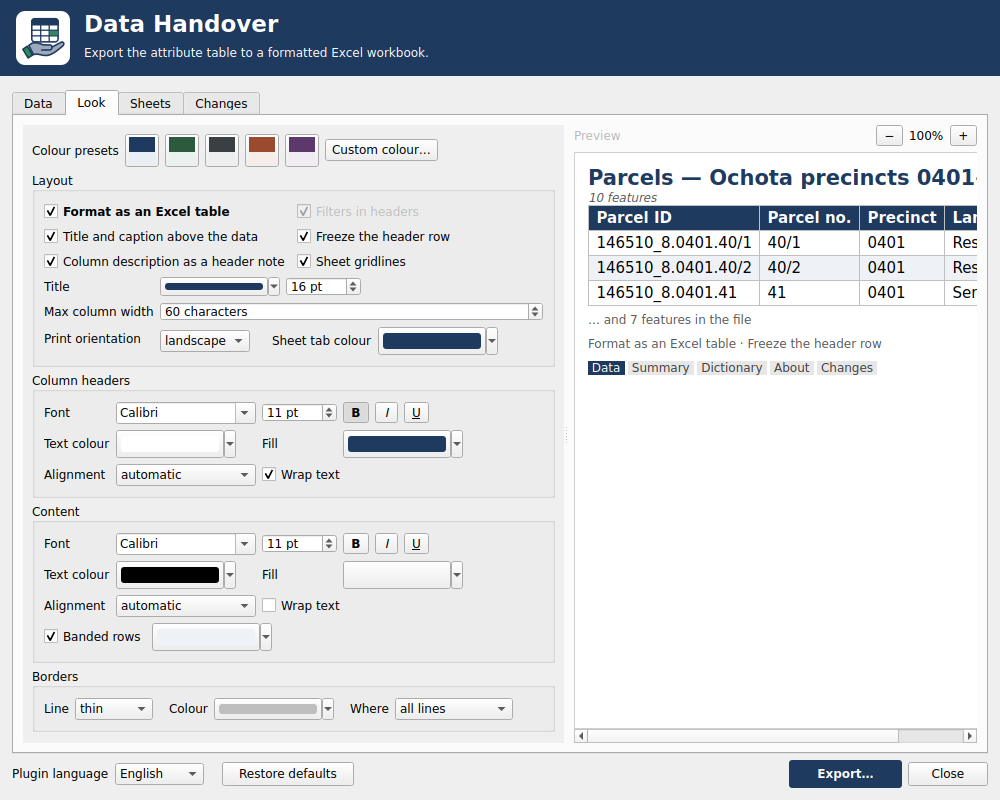
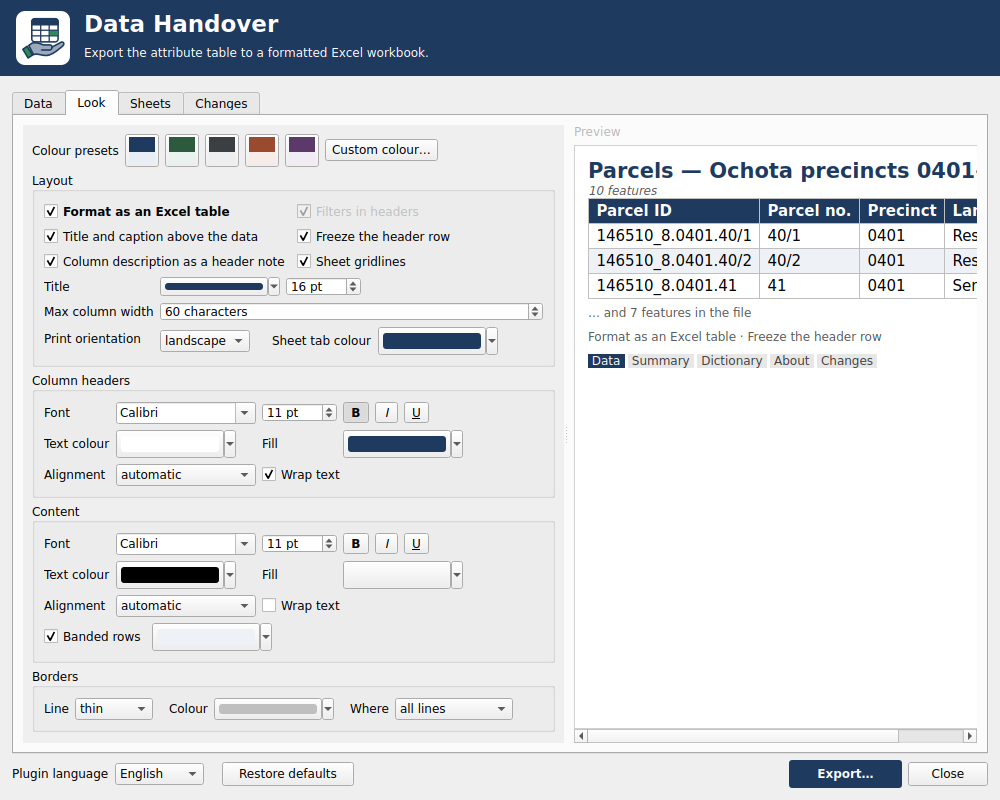
1.0.2: bez powiększania podglądu — podgląd zawsze w rozmiarze z ustawień
Podgląd w zakładce Wygląd pokazuje tylko fragment tabeli: powiększenie
nie pokazywało niczego więcej, a zafałszowywało rozmiar ustawionych
czcionek. Usunięte przyciski − / +, zapis preview_zoom i skalowanie HTML
podglądu (kod podglądu jak przed R11), dwa klucze tłumaczeń oraz opisy
w README, CHANGELOG i metadata.txt. Rozdzielacz i poziomy suwak podglądu
zostają.

Test: pismo w podglądzie ma rozmiar z ustawień także przy starym wpisie
preview_zoom w profilu; w najmniejszym oknie podgląd przewija się
w poziomie. Zrzut zakładki Wygląd i animacja w README odświeżone.

Changed region(s): [[0.558, 0.1562, 0.992, 0.4688]]

diff --git a/data_handover/dialog.py b/data_handover/dialog.py
@@ -91,7 +91,6 @@ CSS_BORDER = {"hair": "1px dotted", "thin": "1px solid", "medium": "2px solid", 
 DEFAULT_SIZE = QSize(1000, 720)
 # ponytail: przybliżona wysokość paska tytułu — Qt zna ramkę okna dopiero po jego pokazaniu.
 FRAME = 40
-ZOOMS = (50, 67, 75, 90, 100, 110, 125, 150, 175, 200)  # powiększenie podglądu w %, jak w przeglądarkach
 
 
 def safe_filename(text: str) -> str:
@@ -247,7 +246,6 @@ class HandoverDialog(QDialog):
         self._summable: set[str] = set()  # pola, które w tej chwili wolno sumować
         self._group_by = ""  # zapamiętana kolumna grupowania; do pliku idzie tylko to, co pokazuje lista
         self._refreshing = False
-        self.zoom = 100
 
         self.setWindowTitle(self.t("ui.title"))
         self.setWindowIcon(QIcon(ICON))
@@ -687,28 +685,14 @@ class HandoverDialog(QDialog):
         panel = QWidget()
         preview_box = QVBoxLayout(panel)
         preview_box.setContentsMargins(6, 0, 0, 0)
-        zoom_row = QHBoxLayout()
         caption = QLabel(self.t("ui.file.preview"))
         caption.setObjectName("hint")
-        zoom_row.addWidget(caption)
-        zoom_row.addStretch()
-        self.zoom_out_button = QToolButton()
-        self.zoom_out_button.setText("−")
-        self.zoom_out_button.setToolTip(self.t("ui.preview.zoom_out"))
-        self.zoom_out_button.clicked.connect(lambda: self._zoom(-1))
-        self.zoom_label = QLabel()
-        self.zoom_in_button = QToolButton()
-        self.zoom_in_button.setText("+")
-        self.zoom_in_button.setToolTip(self.t("ui.preview.zoom_in"))
-        self.zoom_in_button.clicked.connect(lambda: self._zoom(1))
-        for widget in (self.zoom_out_button, self.zoom_label, self.zoom_in_button):
-            zoom_row.addWidget(widget)
         self.preview = QLabel()
         self.preview.setTextFormat(Qt.TextFormat.RichText)
         self.preview.setAlignment(Qt.AlignmentFlag.AlignTop | Qt.AlignmentFlag.AlignLeft)
         self.preview.setObjectName("preview")
         self.preview_scroll = scrolled(self.preview)
-        preview_box.addLayout(zoom_row)
+        preview_box.addWidget(caption)
         preview_box.addWidget(self.preview_scroll, 1)
         self.look_splitter.addWidget(panel)
         self.look_splitter.setStretchFactor(0, 0)
@@ -896,19 +880,18 @@ class HandoverDialog(QDialog):
         )
 
     def reset_settings(self) -> None:
-        """Przywraca domyślny wygląd, arkusze, język pliku (= język okna), rozmiar okna, rozdzielacz
-        i powiększenie podglądu (opisy kolumn w projekcie zostają)."""
+        """Przywraca domyślny wygląd, arkusze, język pliku (= język okna), rozmiar okna i rozdzielacz
+        (opisy kolumn w projekcie zostają)."""
         self._set_look(Look())
         self._set_sheets(Sheets())
         self.lang_combo.setCurrentIndex(max(0, self.lang_combo.findData(self.lang)))
         self._fit(DEFAULT_SIZE, self.isVisible())
         self.look_splitter.setSizes(self.look_split)
-        self._set_zoom(100)
 
     # -------------------------------------------------------------- window
 
     def _restore_window(self) -> None:
-        """Rozmiar okna, rozdzielacz i powiększenie z ostatniego razu, a bez nich — domyślne."""
+        """Rozmiar okna i rozdzielacz z ostatniego razu, a bez nich — domyślne."""
         self.ensurePolished()  # styl okna poszerza przycisk eksportu
         self.footer_width = self.footer.minimumSize().width()  # stopka w jednym wierszu
         saved = self.settings.value(SETTINGS + "window")
@@ -917,9 +900,6 @@ class HandoverDialog(QDialog):
         split = self.settings.value(SETTINGS + "look_splitter")
         if not (isinstance(split, QByteArray) and self.look_splitter.restoreState(split)):
             self.look_splitter.setSizes(self.look_split)
-        # Tylko wartości z listy, porównane jako tekst: uszkodzony wpis w profilu nie może zablokować okna.
-        zoom = str(self.settings.value(SETTINGS + "preview_zoom", 100))
-        self._set_zoom(next((z for z in ZOOMS if str(z) == zoom), 100))
 
     def _fit(self, size: QSize, keep_position: bool) -> None:
         """Okno mieści się na ekranie, na którym się otwiera: mały laptop, 4K, skalowanie, odłączony monitor.
@@ -938,20 +918,9 @@ class HandoverDialog(QDialog):
             self.move(max(area.left(), min(self.x(), area.right() + 1 - self.width())),
                       max(area.top(), min(self.y(), area.bottom() + 1 - self.height() - FRAME)))
 
-    def _zoom(self, step: int) -> None:
-        self._set_zoom(ZOOMS[ZOOMS.index(self.zoom) + step])
-
-    def _set_zoom(self, zoom: int) -> None:
-        self.zoom = zoom if zoom in ZOOMS else 100
-        self.zoom_label.setText(f"{self.zoom}%")
-        self.zoom_out_button.setEnabled(self.zoom > ZOOMS[0])
-        self.zoom_in_button.setEnabled(self.zoom < ZOOMS[-1])
-        self._update_preview()
-
     def done(self, result: int) -> None:
         """Każde zamknięcie okna (eksport, Zamknij, Esc, zmiana języka) zapamiętuje jego układ."""
-        for name, value in (("window", self.saveGeometry()), ("look_splitter", self.look_splitter.saveState()),
-                            ("preview_zoom", self.zoom)):
+        for name, value in (("window", self.saveGeometry()), ("look_splitter", self.look_splitter.saveState())):
             self.settings.setValue(SETTINGS + name, value)
         super().done(result)
 
@@ -1145,14 +1114,10 @@ class HandoverDialog(QDialog):
         columns = list(xlsx._plain_years(Package("", columns, sample_rows), sample_rows).columns)
         side = CSS_BORDER.get(look.border_style, "")
         line = f"{side} #{look.border_color}" if side else ""
-        zoom = self.zoom / 100
-
-        def scaled(value: float) -> str:
-            return f"{value * zoom:.4g}"
 
         def cell_css(style: CellLook, align: str, r: int, c: int, rows: int, cols: int, fill: str) -> str:
-            css = [f"font-family:'{style.font}'", f"font-size:{scaled(style.size)}pt", f"color:#{style.color}",
-                   f"padding:{scaled(3)}px {scaled(7)}px", f"text-align:{align}"]
+            css = [f"font-family:'{style.font}'", f"font-size:{style.size}pt", f"color:#{style.color}",
+                   "padding:3px 7px", f"text-align:{align}"]
             if style.bold:
                 css.append("font-weight:bold")
             if style.italic:
@@ -1218,7 +1183,7 @@ class HandoverDialog(QDialog):
         title = ""
         if look.show_title:
             text = html.escape(self.title_edit.text() or (self.layer.name() if self.layer else ""))
-            title = (f"<div style=\"font-family:'{look.body.font}'; font-size:{scaled(min(look.title_size, 20))}pt;"
+            title = (f"<div style=\"font-family:'{look.body.font}'; font-size:{min(look.title_size, 20)}pt;"
                      f" font-weight:600; color:#{look.title_color};\">{text}</div>"
                      f"<div style='color:#595959; font-style:italic; margin-bottom:6px;'>"
                      f"{html.escape(count_label(lang, count or 0))}</div>")
@@ -1226,14 +1191,12 @@ class HandoverDialog(QDialog):
         flags = " · ".join(t for t, on in ((self.t("ui.look.as_table"), look.as_table),
                                            (self.t("ui.look.autofilter"), filters and not look.as_table),
                                            (self.t("ui.look.freeze"), look.freeze_header)) if on)
-        base = self.preview.font().pointSizeF()
         self.preview.setText(
-            f"<div style='font-size:{scaled(base if base > 0 else 9)}pt;'>"
             f"{title}<table cellspacing='0' cellpadding='0' style='border-collapse:collapse;'>"
             f"<tr>{head}</tr>{body}</table>"
             f"<div style='color:#595959; margin-top:6px;'>{more}</div>"
             f"<div style='color:#595959; margin-top:10px;'>{html.escape(flags)}</div>"
-            f"<div style='margin-top:10px;'>{tabs}</div></div>"
+            f"<div style='margin-top:10px;'>{tabs}</div>"
         )
 
     # -------------------------------------------------------------- export

diff --git a/tests/qgis_window.py b/tests/qgis_window.py
@@ -2,9 +2,9 @@
 
 `scripts/qgis-test.sh` uruchamia ten test kilka razy, na ekranach Xvfb o różnej
 wielkości i ze skalowaniem (QT_SCALE_FACTOR). Sprawdza, że okno mieści się na
-ekranie, przewija się zamiast ściskać, zapamiętuje rozmiar, rozdzielacz
-i powiększenie podglądu, a „Przywróć domyślne” je zeruje. Zrzuty całego
-ekranu trafiają do build/screens/.
+ekranie, przewija się zamiast ściskać, zapamiętuje rozmiar i rozdzielacz,
+a „Przywróć domyślne” je zeruje. Podgląd pokazuje czcionki w rozmiarze
+z ustawień. Zrzuty całego ekranu trafiają do build/screens/.
 """
 
 from __future__ import annotations
@@ -28,7 +28,7 @@ SMALL = QSize(1000, 520)
 
 
 def fresh() -> None:
-    for name in ("window", "look_splitter", "preview_zoom"):
+    for name in ("window", "look_splitter"):
         QgsSettings().remove(SETTINGS + name)
 
 
@@ -53,14 +53,24 @@ def main() -> None:
     fresh()
 
     # Uszkodzone albo obce ustawienia nie blokują okna (przegląd R11, zarzut 1).
-    for zoom, saved in (("²", "abc"), ("9" * 5000, QByteArray(b"junk"))):
-        for name, value in (("preview_zoom", zoom), ("window", saved), ("look_splitter", saved)):
-            QgsSettings().setValue(SETTINGS + name, value)
+    for saved in ("abc", QByteArray(b"junk")):
+        for name in ("window", "look_splitter"):
+            QgsSettings().setValue(SETTINGS + name, saved)
         box = opened(layer)
-        check(box.zoom == 100 and area.contains(box.frameGeometry()),
-              f"uszkodzone ustawienia ({zoom[:4]!r}…): okno otwiera się z domyślnym układem")
+        check(area.contains(box.frameGeometry()), f"uszkodzone ustawienia ({saved!r}): okno otwiera się na ekranie")
         box.close()
     fresh()
+
+    # Podgląd pokazuje czcionki w rozmiarze z ustawień — bez powiększenia (decyzja właściciela
+    # 2026-11-15), także gdy w profilu został wpis powiększenia z wersji roboczej.
+    QgsSettings().setValue(SETTINGS + "preview_zoom", 200)
+    box = opened(layer)
+    look, found = box.look(), sizes(box.preview.text())
+    check(look.body.size in found
+          and all(s in (look.header.size, look.body.size, min(look.title_size, 20)) for s in found),
+          f"podgląd: pismo w rozmiarze z ustawień ({sorted(set(found))} pt)")
+    box.close()
+    QgsSettings().remove(SETTINGS + "preview_zoom")
 
     # Każdy język: okno na ekranie, także gdy ekran jest węższy niż stopka w jednym wierszu.
     for lang in LANGUAGES:
@@ -98,43 +108,29 @@ def main() -> None:
     QApplication.processEvents()
     check(table.horizontalScrollBar().maximum() > 0 and table.columnWidth(COL_DESC) >= 300,
           "najmniejsze okno: tabela pól ma poziomy suwak, opis nie jest ściśnięty")
-
-    # Podgląd: + i − zmieniają wielkość pisma, w granicach; powiększony przewija się w poziomie.
     box.tabs.setCurrentIndex(1)
     QApplication.processEvents()
-    base = sizes(box.preview.text())
-    while box.zoom_in_button.isEnabled():
-        box.zoom_in_button.click()
-    QApplication.processEvents()
-    big = sizes(box.preview.text())
-    check(box.zoom == 200 and len(big) == len(base) > 0
-          and all(abs(b - 2 * a) < 0.06 for a, b in zip(base, big)),
-          f"powiększenie 200 %: pismo w podglądzie dwa razy większe ({base[:2]} → {big[:2]})")
-    check(box.preview_scroll.horizontalScrollBar().maximum() > 0, "powiększony podgląd ma poziomy suwak")
-    while box.zoom_out_button.isEnabled():
-        box.zoom_out_button.click()
-    check(box.zoom == 50 and box.zoom_in_button.isEnabled(), "pomniejszenie kończy się na 50 %")
+    check(box.preview_scroll.horizontalScrollBar().maximum() > 0,
+          "najmniejsze okno: podgląd przewija się w poziomie, zamiast ściskać tabelę")
     box.close()
 
-    # Zapamiętane: rozmiar okna, rozdzielacz i powiększenie (także po zmianie języka okna).
+    # Zapamiętane: rozmiar okna i rozdzielacz (także po zmianie języka okna).
     box = opened(layer)
     box.resize(area.width() * 4 // 5, (area.height() - 40) * 4 // 5)
     box.tabs.setCurrentIndex(1)
     QApplication.processEvents()
     wanted = box.size()
     box.look_splitter.setSizes([260, 600])
-    box.zoom_in_button.click()
-    box.zoom_in_button.click()
-    zoom, split = box.zoom, box.look_splitter.sizes()
+    split = box.look_splitter.sizes()
     box.close()
     again = opened(layer)
     again.tabs.setCurrentIndex(1)
     QApplication.processEvents()
-    check(again.size() == wanted and again.look_splitter.sizes() == split and again.zoom == zoom != 100,
-          f"okno pamięta rozmiar, rozdzielacz {split} i powiększenie {zoom} %")
+    check(again.size() == wanted and again.look_splitter.sizes() == split,
+          f"okno pamięta rozmiar i rozdzielacz {split}")
     again.ui_lang_combo.setCurrentIndex(again.ui_lang_combo.findData("de"))
     german = opened(layer)
-    check(german.size() == wanted.expandedTo(german.minimumSizeHint()) and german.zoom == zoom,
+    check(german.size() == wanted.expandedTo(german.minimumSizeHint()),
           "po zmianie języka okno ma ten sam rozmiar (chyba że minimum w nowym języku jest większe)")
     german.close()
     QgsSettings().remove(UI_LANGUAGE)
@@ -148,19 +144,17 @@ def main() -> None:
     check(area.contains(back.frameGeometry()),
           f"zapisany rozmiar większy niż ekran i poza nim: okno {back.frameGeometry().getRect()} na ekranie")
 
-    # „Przywróć domyślne”: rozmiar, rozdzielacz i powiększenie jak przy pierwszym otwarciu.
+    # „Przywróć domyślne”: rozmiar i rozdzielacz jak przy pierwszym otwarciu.
     back.tabs.setCurrentIndex(1)
-    back.zoom_in_button.click()
     back.look_splitter.setSizes([200, 700])
     back.reset_settings()
     QApplication.processEvents()
     # Gdy okno jest węższe niż ustawienia i podgląd razem, Qt rozdziela brak miejsca zależnie
     # od kolejności zmian rozmiaru — po resecie rozdzielacz może stać kilka pikseli dalej.
     split_ok = all(abs(a - b) <= 10 for a, b in zip(back.look_splitter.sizes(), default_split))
-    check(back.size() == default_size and split_ok and back.zoom == 100
-          and area.contains(back.frameGeometry()),
+    check(back.size() == default_size and split_ok and area.contains(back.frameGeometry()),
           f"„Przywróć domyślne”: okno {back.width()}×{back.height()}, rozdzielacz {back.look_splitter.sizes()}"
-          f" (domyślny {default_split}), powiększenie {back.zoom} %")
+          f" (domyślny {default_split})")
     back.close()
     fresh()
     print("OK")

diff --git a/README.pl.md b/README.pl.md
@@ -19,7 +19,7 @@ i dymki z opisem kolumn.*
 | Zakładka | Co zawiera |
 |---|---|
 | **Dane** | warstwa, zakres (wszystkie / zaznaczone / w zasięgu mapy), kolumny i ich kolejność, nagłówek, jednostka i opis kolumny (zapamiętywane w projekcie), decyzja o danych osobowych, kolumny z geometrii (powierzchnia albo długość, współrzędne, link do mapy) |
-| **Wygląd** | tabela Excela albo zwykły zakres (z filtrami lub bez); osobno dla nagłówków i zawartości: czcionka, rozmiar, kolor, pogrubienie, kursywa, podkreślenie, tło, wyrównanie, zawijanie; pasy co drugi wiersz; obramowanie (linia, kolor, wszystkie linie / tylko poziome / tylko obrys); tytuł nad danymi, zamrożony nagłówek, siatka, opis w dymku nagłówka, szerokość kolumn, orientacja wydruku, kolor karty; gotowe kolorystyki i podgląd na żywo, powiększany przyciskami + i − |
+| **Wygląd** | tabela Excela albo zwykły zakres (z filtrami lub bez); osobno dla nagłówków i zawartości: czcionka, rozmiar, kolor, pogrubienie, kursywa, podkreślenie, tło, wyrównanie, zawijanie; pasy co drugi wiersz; obramowanie (linia, kolor, wszystkie linie / tylko poziome / tylko obrys); tytuł nad danymi, zamrożony nagłówek, siatka, opis w dymku nagłówka, szerokość kolumn, orientacja wydruku, kolor karty; gotowe kolorystyki i podgląd na żywo |
 | **Arkusze** | tytuł, język pliku (10 języków, domyślnie język wtyczki), arkusze dodatkowe — domyślnie wyłączone — z wyborem zawartości |
 | **Zmiany** | porównanie z poprzednim eksportem według kolumny-klucza |
 
@@ -51,12 +51,11 @@ rozdzielczości ze skalowaniem (sprawdzone do 683 × 384 pikseli logicznych,
 np. 1366 × 768 przy 200%): gdy jest mniejsze niż jego zawartość,
 zakładki przewijają się, zamiast ściskać pola, tabela pól przewija się
 w poziomie, a rozdzielacz w zakładce Wygląd ustala, ile miejsca dostaje
-podgląd. Wtyczka zapamiętuje rozmiar okna, położenie rozdzielacza
-i powiększenie podglądu.
+podgląd. Wtyczka zapamiętuje rozmiar okna i położenie rozdzielacza.
 
 Przycisk **Przywróć domyślne** na dole okna zeruje wygląd, arkusze, język
-pliku (wraca on do języka okna) oraz rozmiar okna, rozdzielacz i powiększenie
-podglądu (opisy kolumn zapisane w projekcie zostają). Okno i plik są dostępne
+pliku (wraca on do języka okna) oraz rozmiar okna i rozdzielacz (opisy
+kolumn zapisane w projekcie zostają). Okno i plik są dostępne
 po angielsku, niemiecku, francusku, hiszpańsku, portugalsku, polsku,
 rosyjsku, koreańsku, japońsku i chińsku. Język okna wybierasz na liście
 „Język wtyczki” w stopce (domyślnie angielski). Język treści pliku idzie

diff --git a/README.md b/README.md
@@ -19,7 +19,7 @@ notes.*
 | Tab | What it holds |
 |---|---|
 | **Data** | layer, scope (all / selected / in map extent), columns and their order, header, unit and description of each column (saved in the project), the decision about personal data, columns from geometry (area or length, coordinates, map link) |
-| **Look** | Excel table or plain range (with or without filters); separately for headers and content: font, size, colour, bold, italic, underline, fill, alignment, wrapping; banded rows; borders (line, colour, all lines / horizontal only / outline only); title above the data, frozen header, gridlines, description in a header comment, column width, print orientation, tab colour; colour presets and a live preview you can zoom with + and − |
+| **Look** | Excel table or plain range (with or without filters); separately for headers and content: font, size, colour, bold, italic, underline, fill, alignment, wrapping; banded rows; borders (line, colour, all lines / horizontal only / outline only); title above the data, frozen header, gridlines, description in a header comment, column width, print orientation, tab colour; colour presets and a live preview |
 | **Sheets** | title, file language (10 languages, the plugin language by default), extra sheets — off by default — with a choice of what goes in |
 | **Changes** | comparison with the previous export by a key column |
 
@@ -50,11 +50,11 @@ display scaling (checked down to 683 × 384 logical pixels, e.g. 1366 × 768
 at 200 %): when it is smaller than its content, the tabs scroll
 instead of squeezing the fields, the field table scrolls sideways, and a
 divider on the Look tab sets how much room the preview gets. The plugin
-remembers the window size, the divider position and the preview zoom.
+remembers the window size and the divider position.
 
 The **Restore defaults** button at the bottom of the window resets the
 look, the sheets, the file language to the window language, and the window
-size, divider and preview zoom (column descriptions saved in the project stay). The window and the file are available in English, German,
+size and divider (column descriptions saved in the project stay). The window and the file are available in English, German,
 French, Spanish, Portuguese, Polish, Russian, Korean, Japanese and
 Simplified Chinese. Pick the window language from the "Plugin language"
 list in the footer (English by default). The file language follows it:

diff --git a/CHANGELOG.md b/CHANGELOG.md
@@ -24,10 +24,10 @@ All notable changes to the Data Handover plugin. Versions follow
   squeezing the fields, and on a very narrow screen the bottom bar takes two
   rows. The field table scrolls sideways, and the description column keeps a
   usable width.
-- Look tab: a divider between the settings and the preview, and **+** / **−**
-  buttons to zoom the preview (50–200 %).
-- The plugin remembers the window size, the divider position and the preview
-  zoom; **Restore defaults** resets them.
+- Look tab: a divider between the settings and the preview; the preview
+  scrolls sideways instead of squeezing the table.
+- The plugin remembers the window size and the divider position; **Restore
+  defaults** resets them.
 - A shorter plugin description and changelog in the Plugin Manager.
 
 ## 1.0.1
